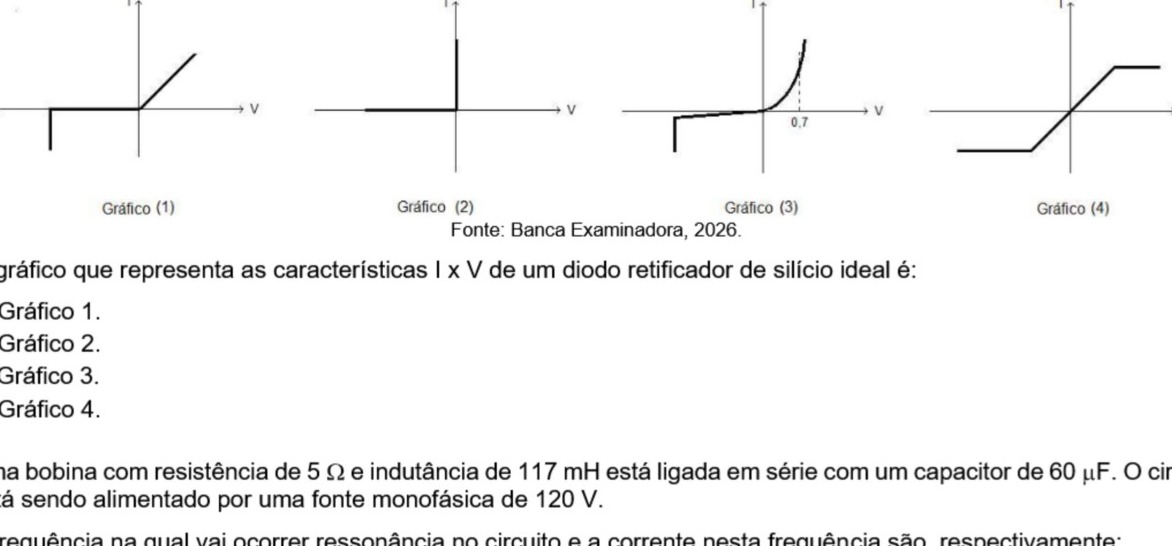
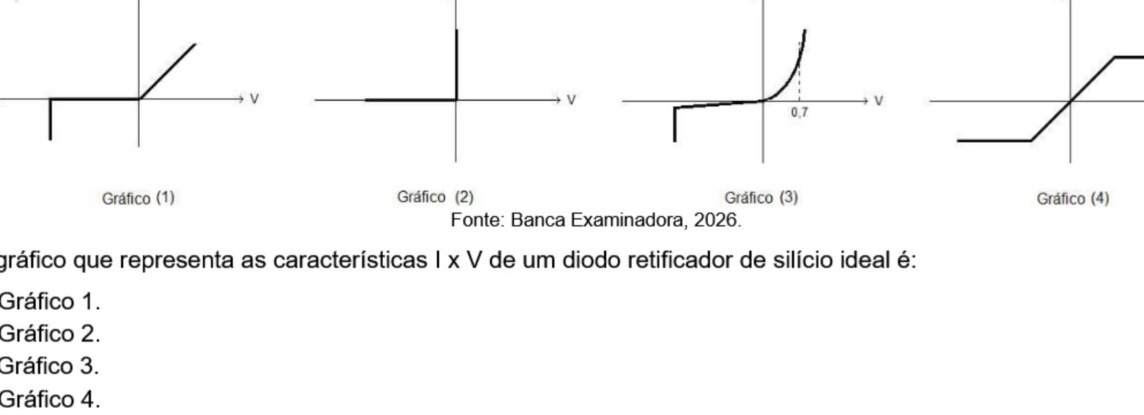
fix: recortar só os esquemas e colorir dificuldade
Remove texto/alternativas das figuras EAOEAR e sinaliza fácil/médio/difícil em verde/amarelo/vermelho.

diff --git a/frontend/src/pages/QuestionsPage.tsx b/frontend/src/pages/QuestionsPage.tsx
@@ -2,7 +2,7 @@ import { useMemo } from 'react'
 import { Link, useSearchParams } from 'react-router-dom'
 import { Bookmark, ChevronLeft, ChevronRight, Flag } from 'lucide-react'
 import { useCatalog, useQuestions, useToggleFavorite, useToggleReview } from '@/hooks/use-api'
-import { truncate } from '@/lib/utils'
+import { truncate, getErrorMessage, difficultyBadgeVariant, difficultyLabel } from '@/lib/utils'
 import { PageHeader, ErrorState } from '@/components/ui/page'
 import { Card, CardContent } from '@/components/ui/card'
 import { Button } from '@/components/ui/button'
@@ -12,14 +12,6 @@ import { Badge } from '@/components/ui/badge'
 import { Skeleton } from '@/components/ui/skeleton'
 import { EmptyState } from '@/components/ui/empty-state'
 import { toast } from 'sonner'
-import { getErrorMessage } from '@/lib/utils'
-
-const dificuldadeLabel: Record<string, string> = {
-  facil: 'Fácil',
-  medio: 'Médio',
-  dificil: 'Difícil',
-  nao_informado: 'N/I',
-}
 
 export function QuestionsPage() {
   const [params, setParams] = useSearchParams()
@@ -162,8 +154,8 @@ export function QuestionsPage() {
                   <div className="min-w-0 flex-1">
                     <div className="mb-2 flex flex-wrap gap-2">
                       <Badge variant="secondary">{q.disciplina_nome || 'Disciplina'}</Badge>
-                      <Badge variant="outline">
-                        {dificuldadeLabel[q.dificuldade] || q.dificuldade}
+                      <Badge variant={difficultyBadgeVariant(q.dificuldade)}>
+                        {difficultyLabel(q.dificuldade)}
                       </Badge>
                       {q.respondida ? (
                         <Badge variant={q.acertou ? 'success' : 'destructive'}>

diff --git a/frontend/src/pages/SimuladoTakePage.tsx b/frontend/src/pages/SimuladoTakePage.tsx
@@ -7,6 +7,7 @@ import {
   useStartSimulado,
 } from '@/hooks/use-api'
 import { cn, formatStudyText, getErrorMessage } from '@/lib/utils'
+import { difficultyBadgeVariant, difficultyLabel } from '@/lib/utils'
 import type { SimuladoStartResponse } from '@/lib/types'
 import { PageHeader, ErrorState } from '@/components/ui/page'
 import { Card, CardContent } from '@/components/ui/card'
@@ -132,9 +133,16 @@ export function SimuladoTakePage() {
 
       <Card>
         <CardContent className="space-y-5 pt-5">
-          <Badge variant="secondary">
-            {current.questao.disciplina_nome || 'Disciplina'}
-          </Badge>
+          <div className="flex flex-wrap gap-2">
+            <Badge variant="secondary">
+              {current.questao.disciplina_nome || 'Disciplina'}
+            </Badge>
+            {current.questao.dificuldade ? (
+              <Badge variant={difficultyBadgeVariant(current.questao.dificuldade)}>
+                {difficultyLabel(current.questao.dificuldade)}
+              </Badge>
+            ) : null}
+          </div>
           <p className="text-pretty break-words text-base leading-relaxed [overflow-wrap:anywhere]">
             {formatStudyText(current.questao.enunciado)}
           </p>

diff --git a/frontend/src/pages/QuestionSolvePage.tsx b/frontend/src/pages/QuestionSolvePage.tsx
@@ -8,7 +8,7 @@ import {
   useToggleFavorite,
   useToggleReview,
 } from '@/hooks/use-api'
-import { cn, formatStudyText, getErrorMessage } from '@/lib/utils'
+import { cn, formatStudyText, getErrorMessage, difficultyBadgeVariant, difficultyLabel } from '@/lib/utils'
 import type { AnswerResult } from '@/lib/types'
 import { ErrorState } from '@/components/ui/page'
 import { Card, CardContent } from '@/components/ui/card'
@@ -147,7 +147,9 @@ export function QuestionSolvePage() {
             Questão #{data.numero_origem || data.id}
           </p>
           <div className="flex flex-wrap gap-2">
-            <Badge variant="outline">{data.dificuldade}</Badge>
+            <Badge variant={difficultyBadgeVariant(data.dificuldade)}>
+              {difficultyLabel(data.dificuldade)}
+            </Badge>
             {data.origem === 'ai_generated' ? (
               <Badge variant="secondary">
                 <Sparkles className="mr-1 h-3 w-3" aria-hidden /> IA

diff --git a/frontend/src/lib/utils.ts b/frontend/src/lib/utils.ts
@@ -89,3 +89,26 @@ export function resolveMediaUrl(url?: string | null): string | null {
   if (apiRoot) return `${apiRoot}${path}`
   return path
 }
+
+const DIFF_LABEL: Record<string, string> = {
+  facil: 'Fácil',
+  medio: 'Médio',
+  dificil: 'Difícil',
+  nao_informado: 'N/I',
+}
+
+/** Variante de Badge para dificuldade: fácil=verde, médio=amarelo, difícil=vermelho */
+export function difficultyBadgeVariant(
+  dificuldade?: string | null,
+): 'easy' | 'medium' | 'hard' | 'outline' {
+  const key = (dificuldade || '').toLowerCase()
+  if (key === 'facil' || key === 'fácil') return 'easy'
+  if (key === 'medio' || key === 'médio') return 'medium'
+  if (key === 'dificil' || key === 'difícil') return 'hard'
+  return 'outline'
+}
+
+export function difficultyLabel(dificuldade?: string | null) {
+  if (!dificuldade) return 'N/I'
+  return DIFF_LABEL[dificuldade] || DIFF_LABEL[dificuldade.toLowerCase()] || dificuldade
+}

diff --git a/frontend/src/components/ui/badge.tsx b/frontend/src/components/ui/badge.tsx
@@ -11,9 +11,12 @@ const badgeVariants = cva(
         secondary: 'border-transparent bg-secondary text-secondary-foreground',
         outline: 'border-border bg-card text-foreground',
         success: 'border-success/20 bg-success/10 text-success',
-        warning: 'border-xp/25 bg-xp/10 text-xp-foreground',
+        warning: 'border-warning/30 bg-warning/15 text-warning',
         destructive: 'border-destructive/20 bg-destructive/10 text-destructive',
         cta: 'border-cta/20 bg-cta/10 text-cta',
+        easy: 'border-emerald-500/35 bg-emerald-500/15 text-emerald-700 dark:text-emerald-300',
+        medium: 'border-amber-500/40 bg-amber-400/20 text-amber-800 dark:text-amber-300',
+        hard: 'border-red-500/35 bg-red-500/15 text-red-700 dark:text-red-300',
       },
     },
     defaultVariants: {

diff --git a/backend/scripts/build_eaoear_json.py b/backend/scripts/build_eaoear_json.py
@@ -15,17 +15,17 @@ FIGS.mkdir(parents=True, exist_ok=True)
 
 # bbox [x0,y0,x1,y1] fração da página
 CROPS: dict[int, tuple[int, list[float]]] = {
-    32: (1, [0.18, 0.20, 0.82, 0.38]),
-    34: (1, [0.18, 0.68, 0.82, 0.84]),
-    35: (2, [0.10, 0.09, 0.92, 0.36]),
-    43: (3, [0.18, 0.42, 0.82, 0.58]),
-    46: (4, [0.18, 0.36, 0.82, 0.55]),
-    48: (5, [0.12, 0.08, 0.88, 0.36]),
-    49: (5, [0.10, 0.40, 0.90, 0.66]),
-    51: (6, [0.12, 0.10, 0.88, 0.42]),
-    52: (6, [0.12, 0.52, 0.88, 0.82]),
-    53: (7, [0.16, 0.12, 0.84, 0.34]),
-    60: (8, [0.14, 0.50, 0.86, 0.68]),
+    32: (1, [0.20, 0.205, 0.80, 0.345]),
+    34: (1, [0.20, 0.685, 0.80, 0.795]),
+    35: (2, [0.10, 0.095, 0.90, 0.345]),
+    43: (3, [0.22, 0.43, 0.78, 0.535]),
+    46: (4, [0.20, 0.365, 0.80, 0.515]),
+    48: (5, [0.14, 0.09, 0.86, 0.295]),
+    49: (5, [0.10, 0.405, 0.90, 0.575]),
+    51: (6, [0.14, 0.105, 0.86, 0.345]),
+    52: (6, [0.14, 0.53, 0.86, 0.745]),
+    53: (7, [0.18, 0.125, 0.82, 0.295]),
+    60: (8, [0.16, 0.505, 0.84, 0.645]),
 }
 
 QUESTOES = [
@@ -427,8 +427,23 @@ def crop(page_no: int, bbox: list[float], dest: Path) -> None:
     w, h = im.size
     x0, y0, x1, y1 = bbox
     box = (int(x0 * w), int(y0 * h), int(x1 * w), int(y1 * h))
-    im.crop(box).save(dest, quality=92, optimize=True)
-    print("crop", dest.name, box)
+    cropped = im.crop(box)
+    cropped = _trim_bottom_text(cropped)
+    cropped.save(dest, quality=92, optimize=True)
+    print("crop", dest.name, cropped.size)
+
+
+def _trim_bottom_text(im: Image.Image, white_thresh: int = 245, min_ink: float = 0.01) -> Image.Image:
+    """Remove faixa inferior com 'Fonte:' / enunciado repetido."""
+    gray = im.convert("L")
+    w, h = gray.size
+    pixels = gray.load()
+    last = int(h * 0.2)
+    for y in range(int(h * 0.15), int(h * 0.92)):
+        ink = sum(1 for x in range(0, w, 2) if pixels[x, y] < white_thresh)
+        if ink / (w / 2) > min_ink:
+            last = y
+    return im.crop((0, 0, w, min(h, last + 6)))
 
 
 def main() -> None:
